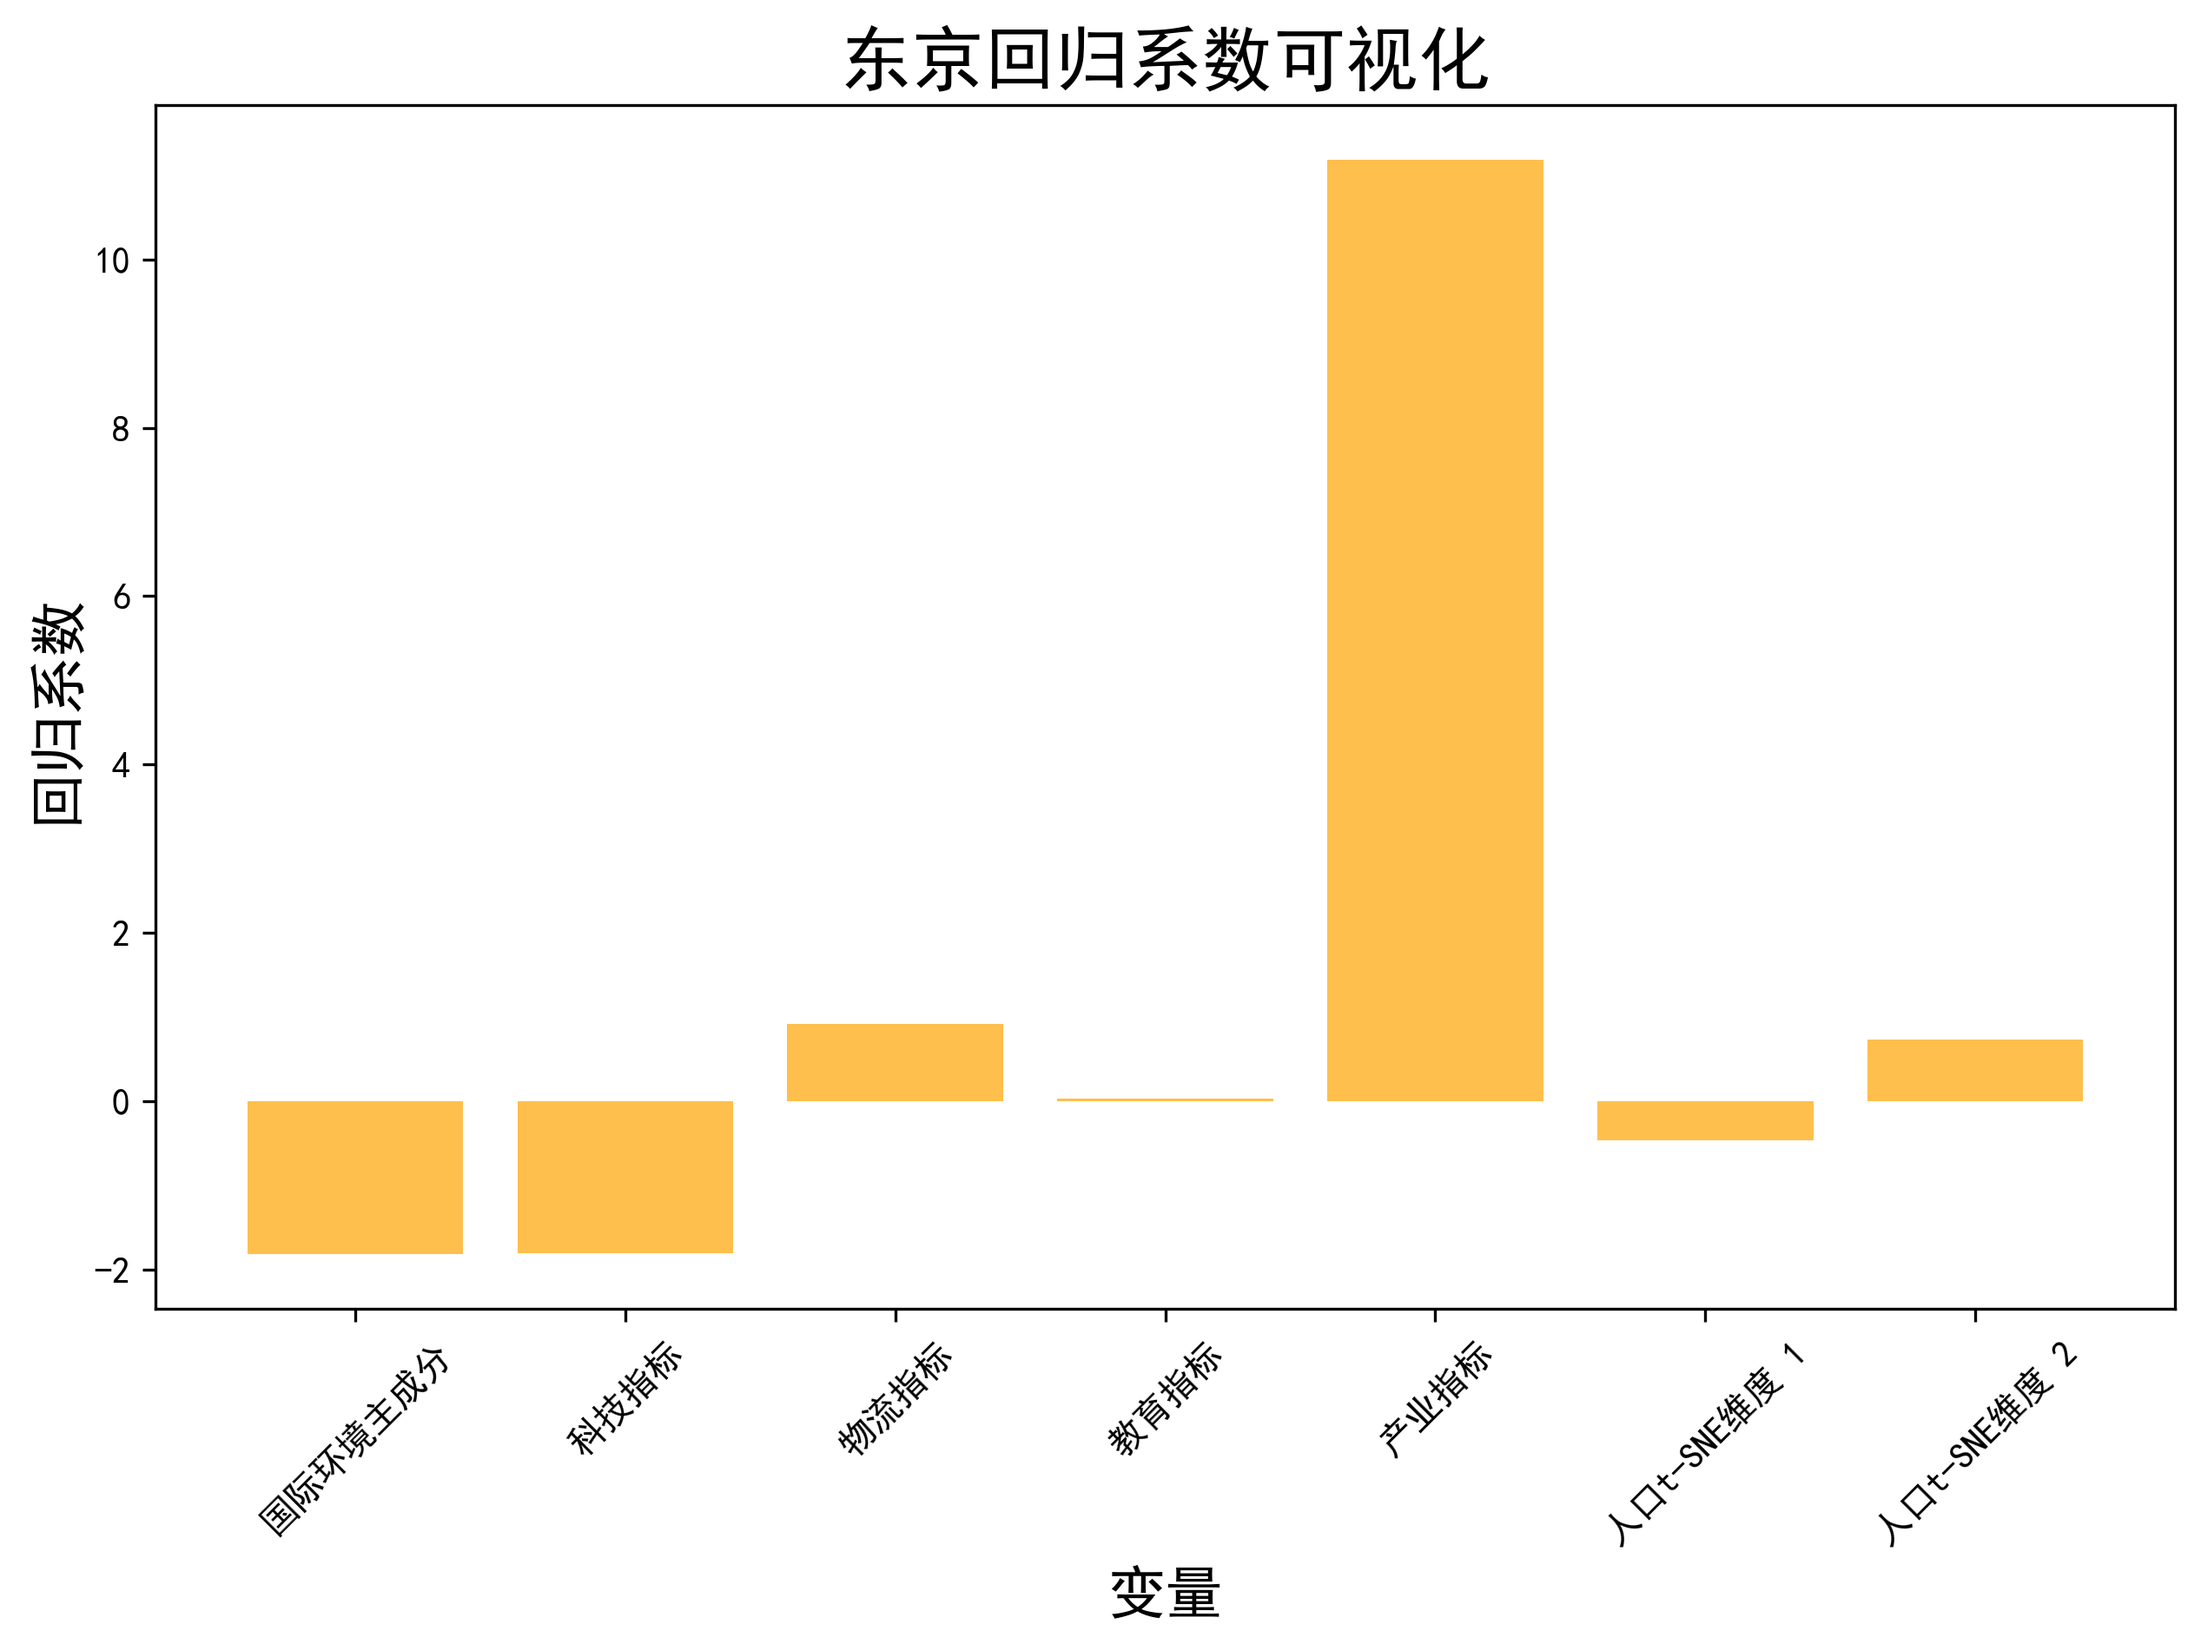
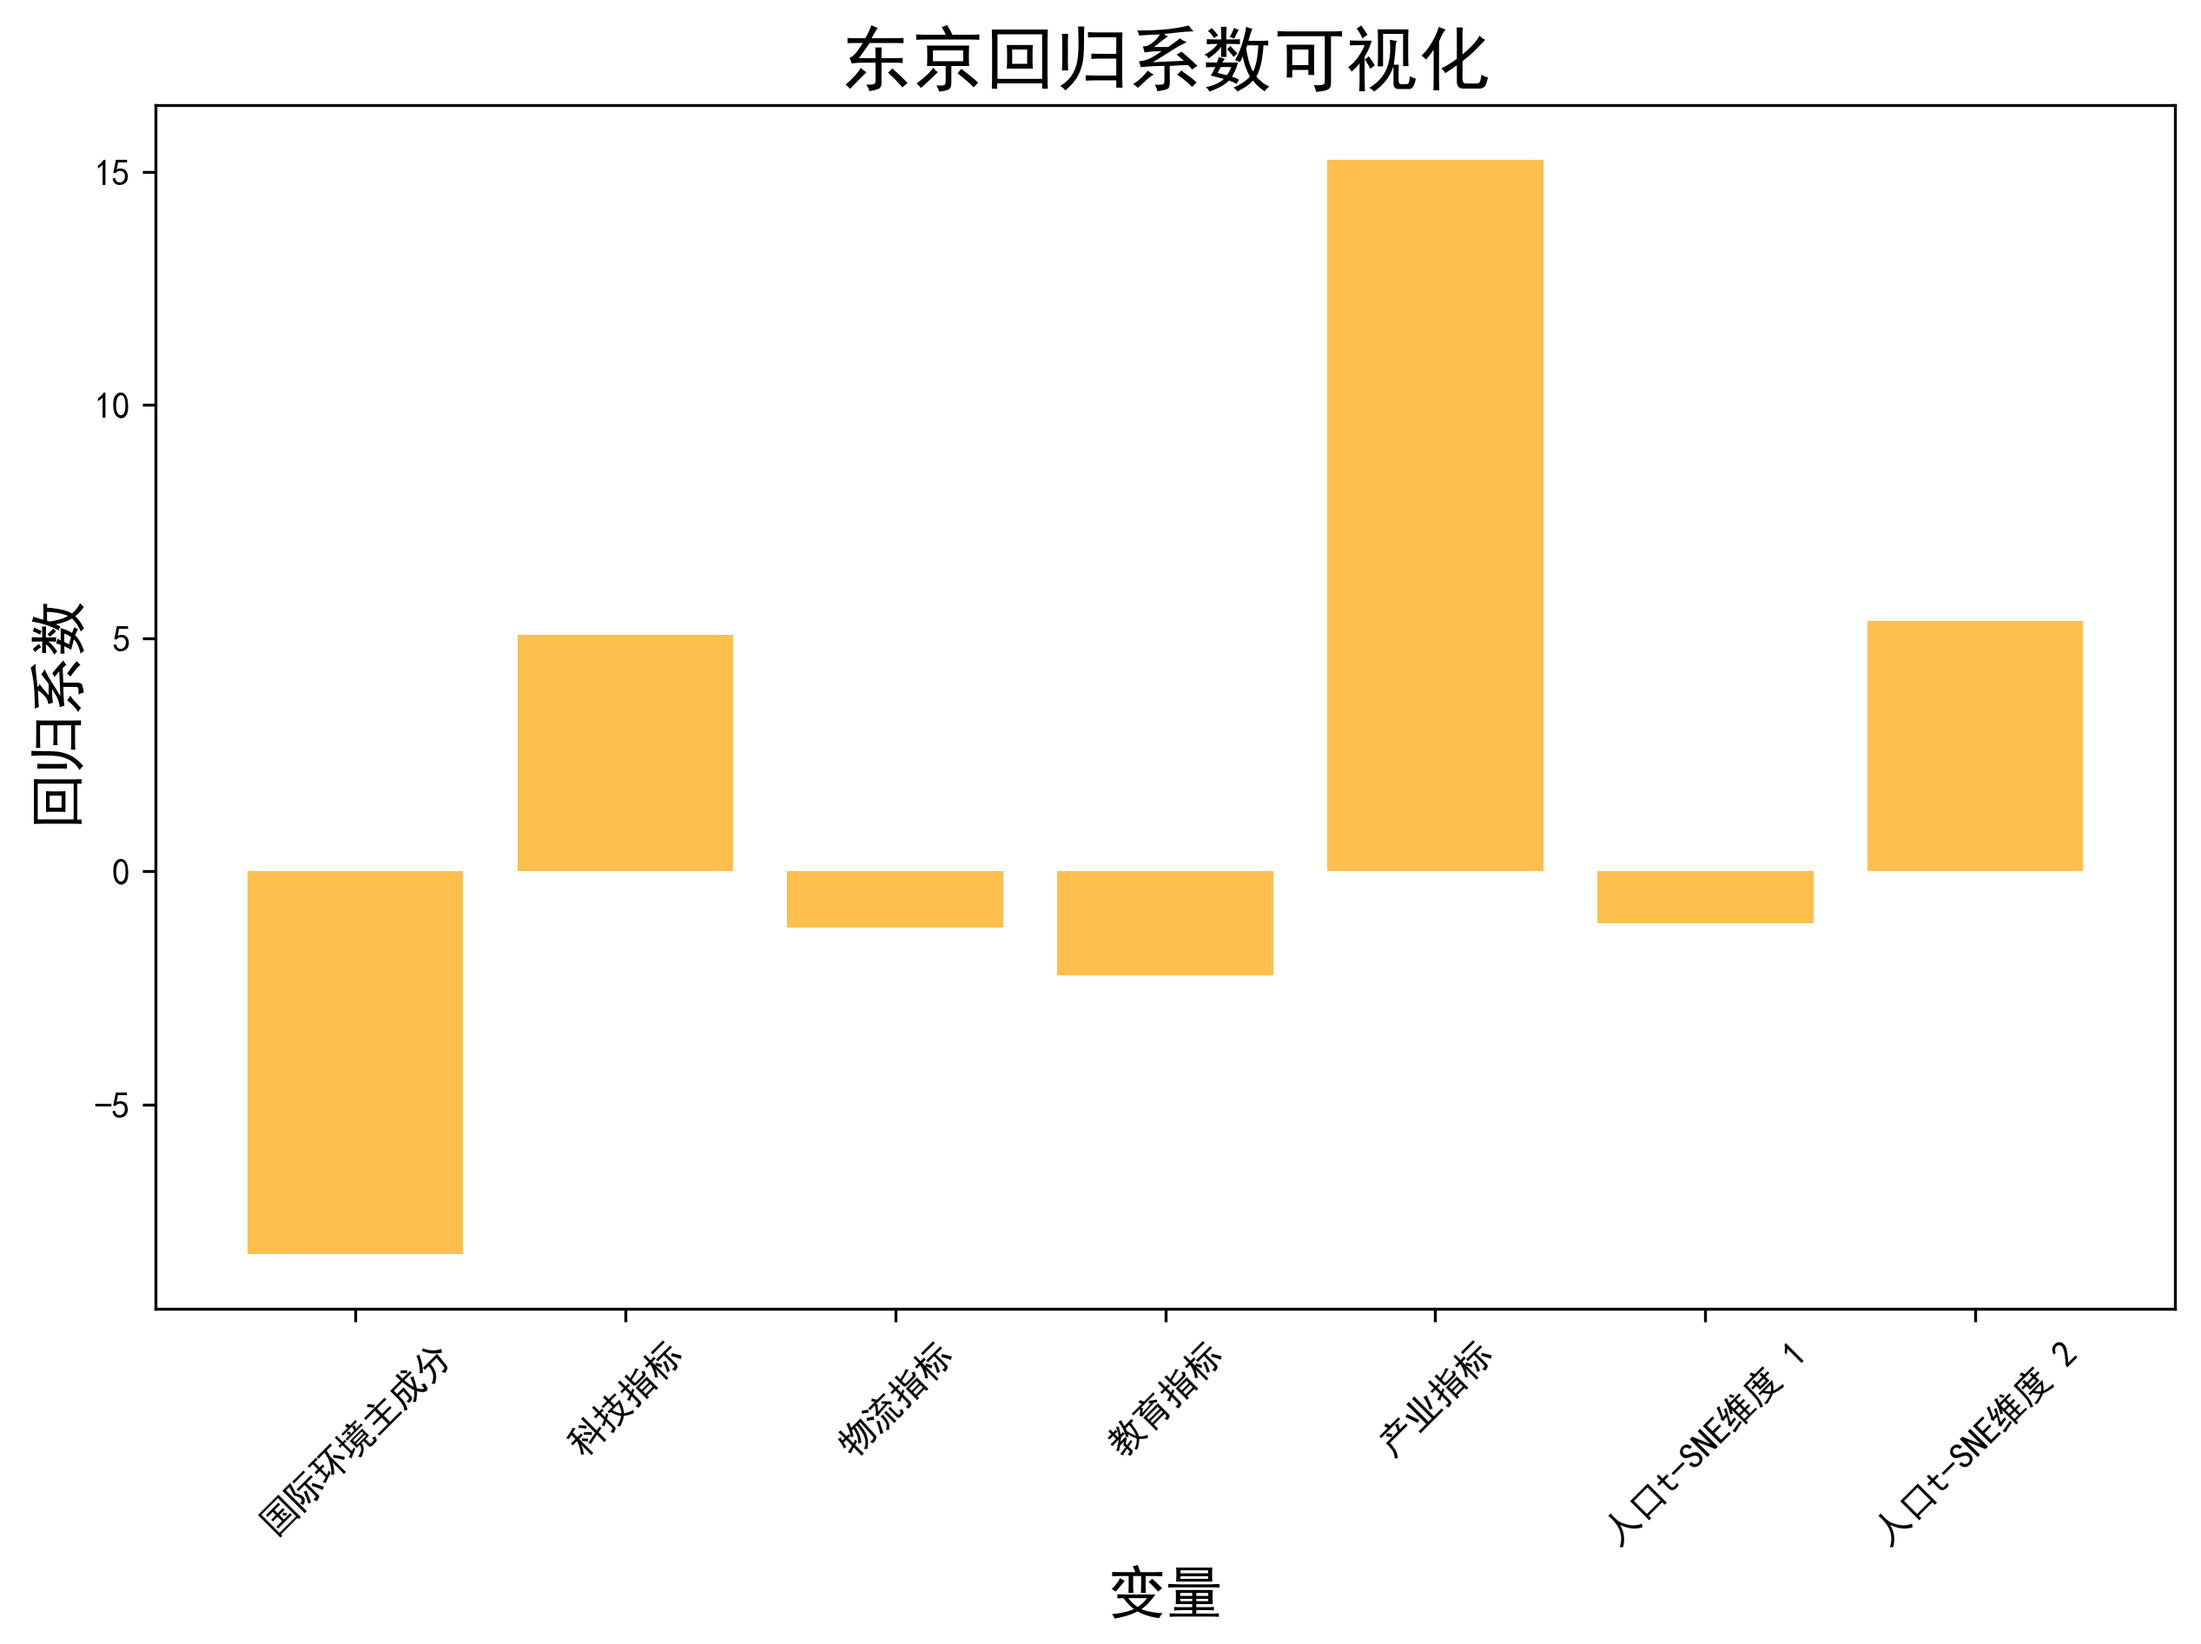
adjust tokyo corr

diff --git a/Question3_Tokyo_corr.py b/Question3_Tokyo_corr.py
@@ -134,8 +134,8 @@ print(f'与 GDP 相关的教育指标:\n{education_reduced}')
 # 6.3 产业指标相关性分析
 
 # 计算每个产业的权重（GDP贡献比例）假设三个产业的总价值接近gdp总量
-# weights = industry_data / gdp[:, np.newaxis]
-weights = industry_data / np.sum(industry_data, axis=0)
+weights = industry_data / gdp[:, np.newaxis]
+# weights = industry_data / np.sum(industry_data, axis=0)
 
 # industry_corr = np.corrcoef(industry_data.T, gdp)
 # print(f'产业指标与 GDP 的相关系数:\n{industry_corr[-1, :-1]}')
